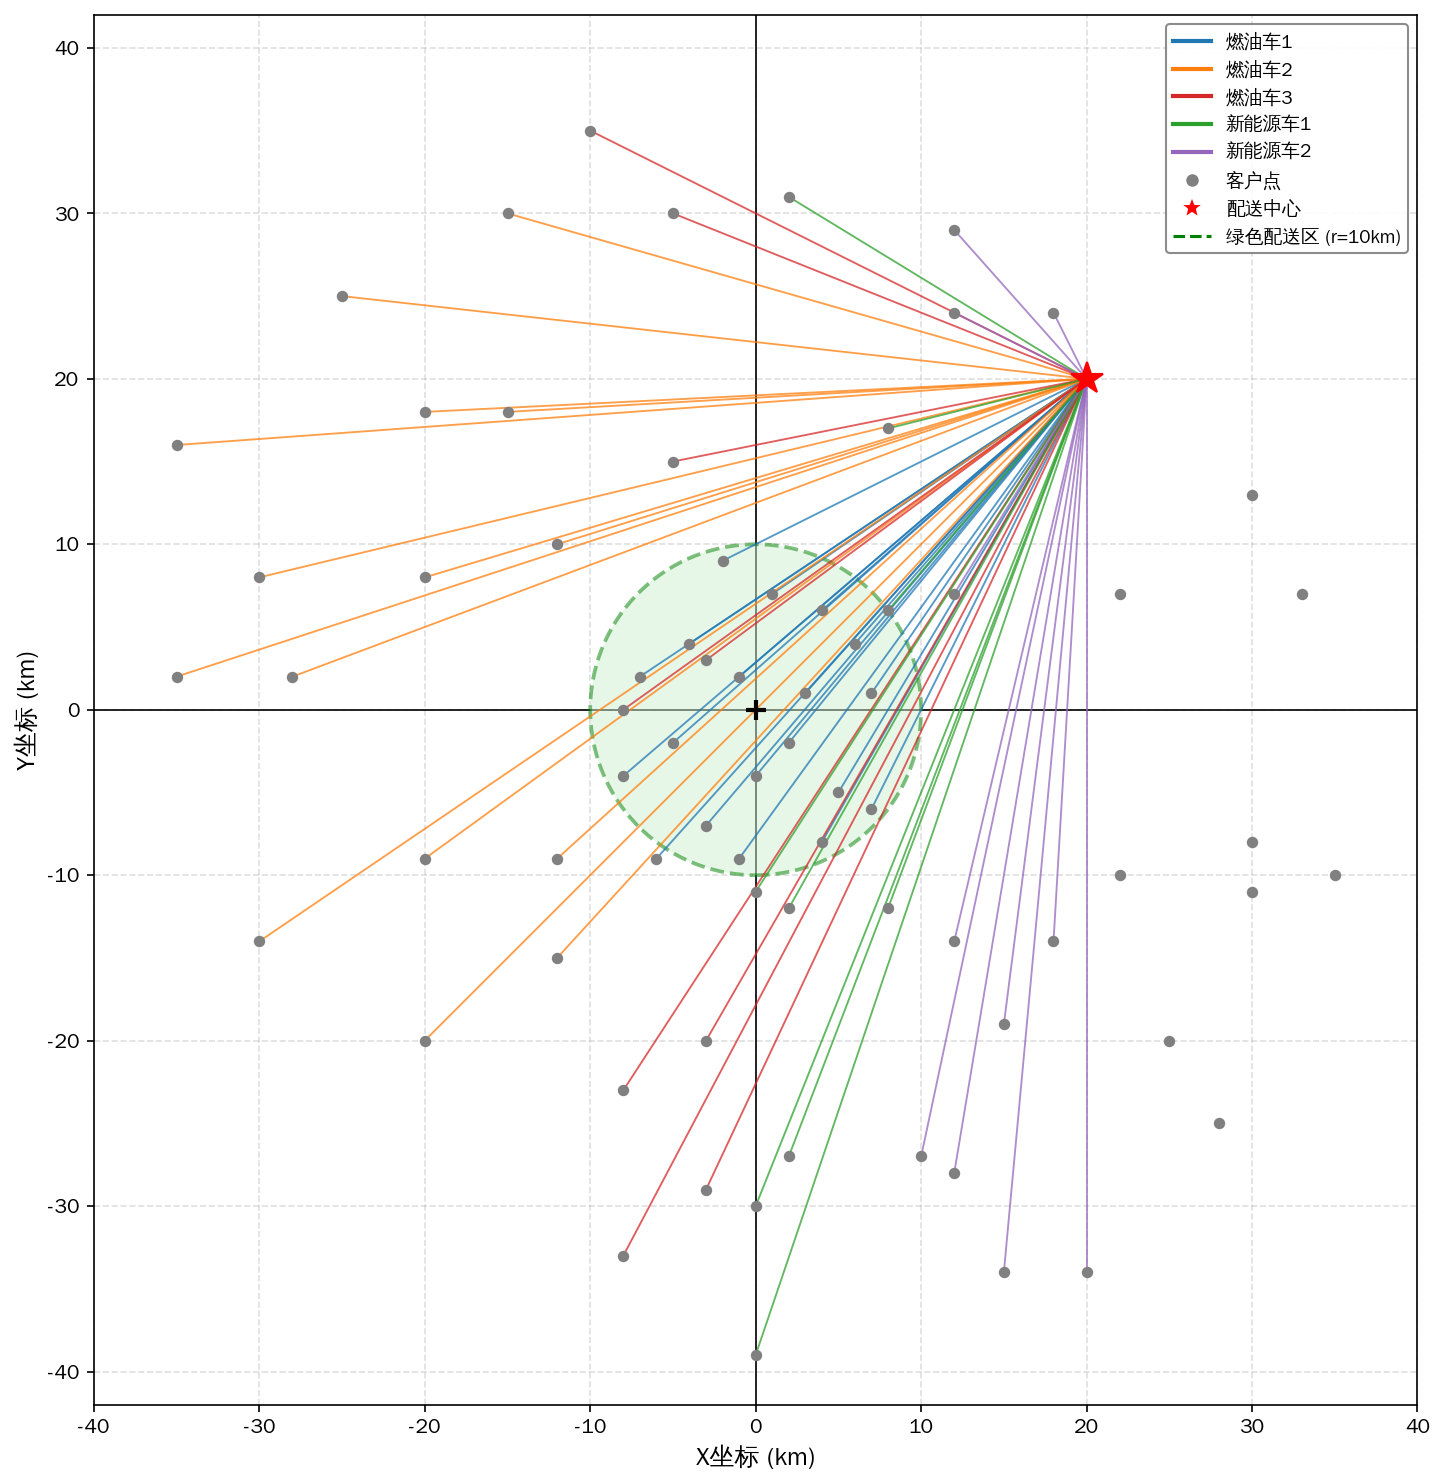
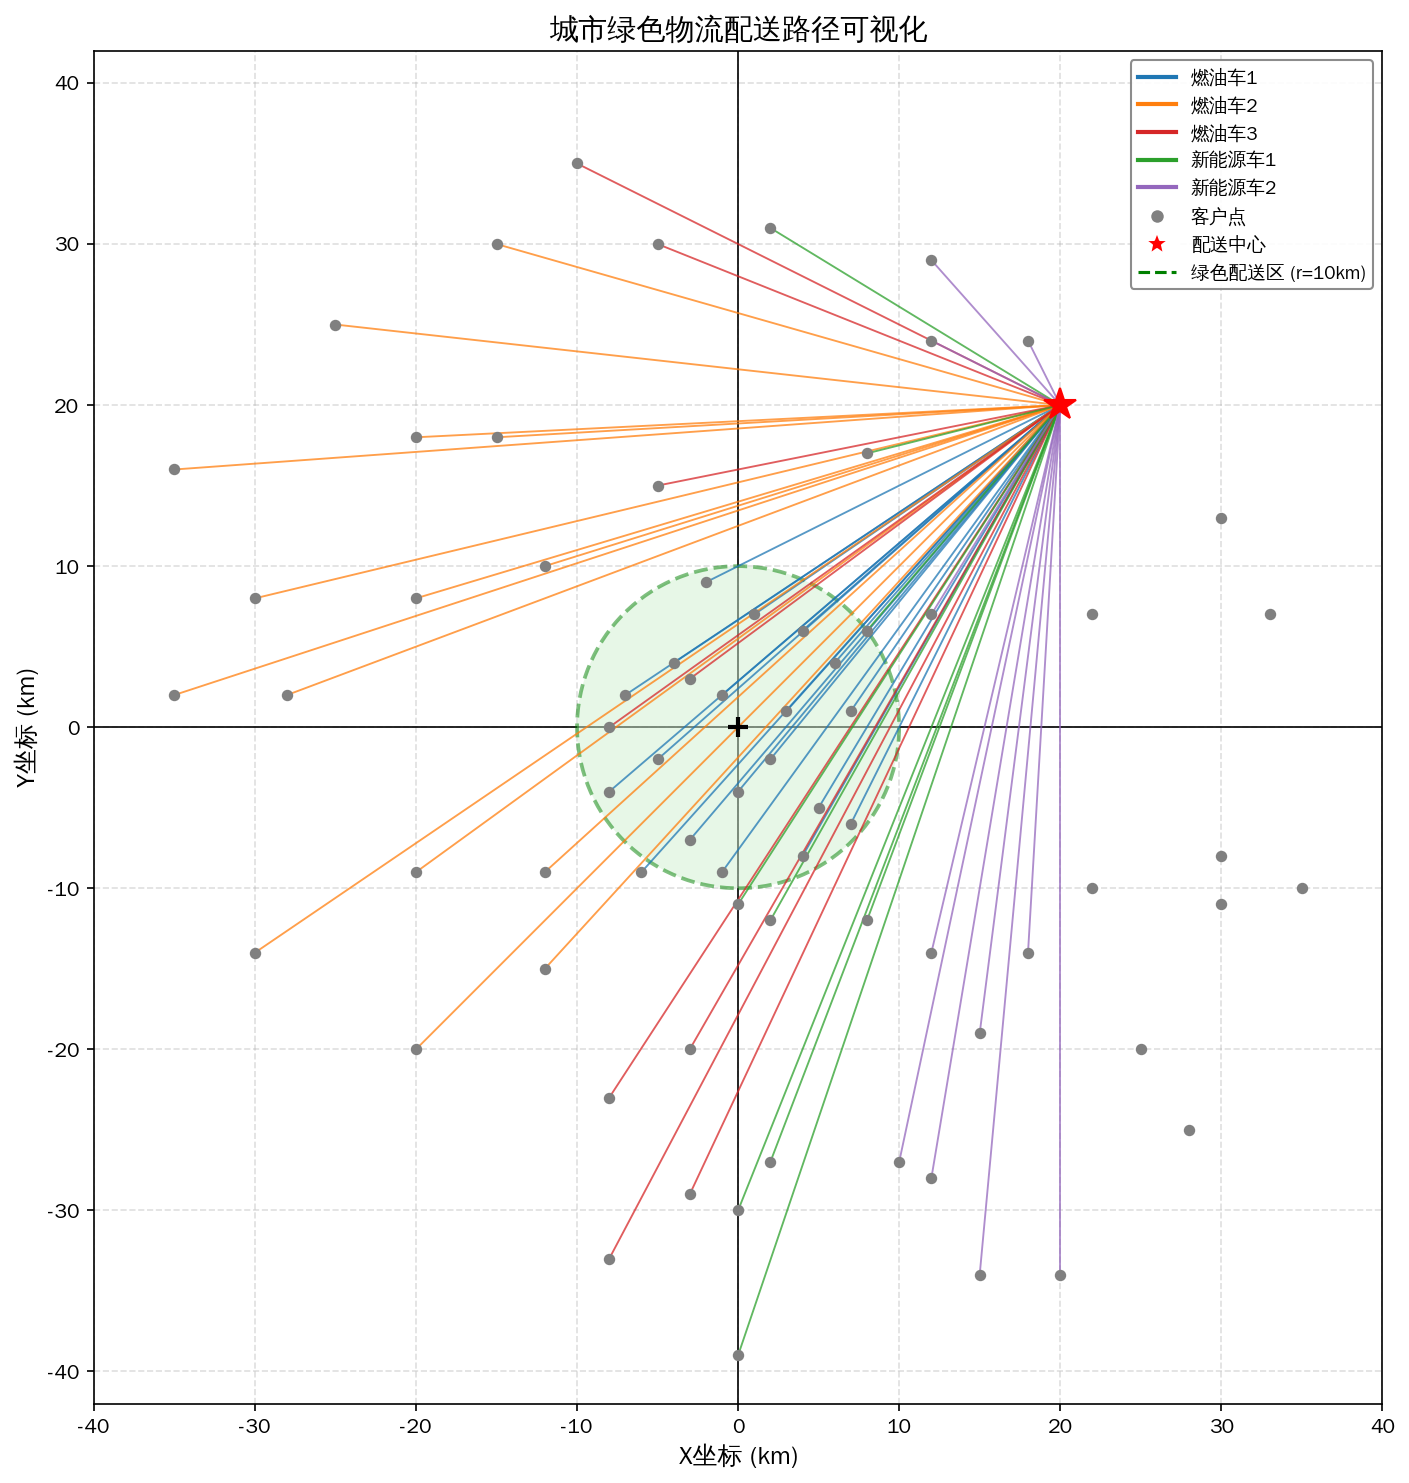
add title to route map and regenerate image
Agent-Logs-Url: https://github.com/rongji6326/skills-copilot-codespaces-vscode/sessions/4d8e4f3b-06e6-4323-bbae-8c9853017e2e

diff --git a/route_visualization.py b/route_visualization.py
@@ -111,6 +111,8 @@ legend_handles += [
 ax.legend(handles=legend_handles, loc='upper right', fontsize=9,
           framealpha=0.9, edgecolor='gray')
 
+ax.set_title('城市绿色物流配送路径可视化', fontsize=14)
+
 plt.tight_layout()
 plt.savefig('route_map.png', dpi=150, bbox_inches='tight')
 print("Saved route_map.png")
